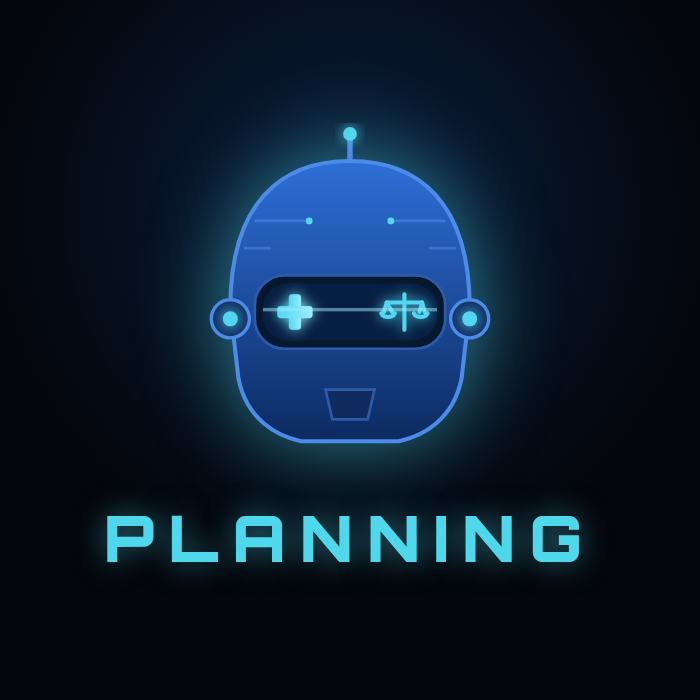
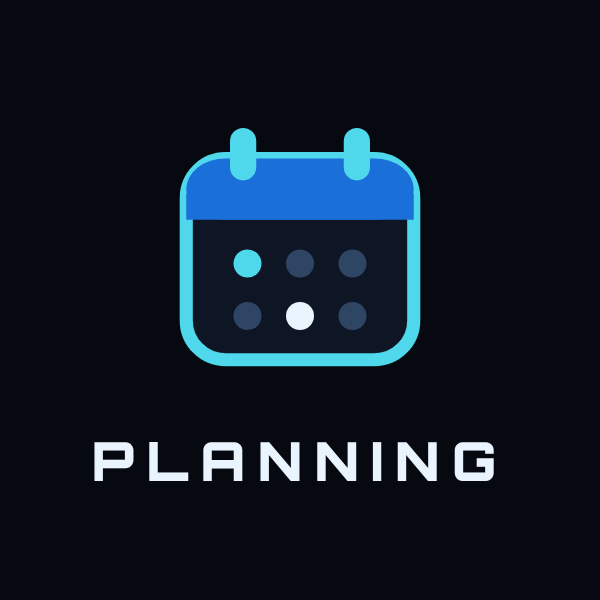
Pages planning : vignette et icône calendrier sobres, sans le robot JARVIS (#239)
Claude-Session: https://claude.ai/code/session_018DKShe5dNcFb2YgXszjpXg

Changed region(s): [[0.21, 0.06, 0.78, 0.69], [0.12, 0.72, 0.84, 0.81]]

diff --git a/planning/sartrouville.html b/planning/sartrouville.html
@@ -10,13 +10,13 @@
 <meta property="og:description" content="Horaires de la semaine, mis à jour en direct" />
 <meta property="og:image" content="https://jarvis-yk-app.netlify.app/planning/og-planning.png" />
 <meta property="og:type" content="website" />
-<link rel="icon" type="image/svg+xml" href="/cdd/jarvis-robot.svg" />
+<link rel="icon" type="image/svg+xml" href="calendrier.svg" />
 <link rel="apple-touch-icon" href="/vac/apple-touch-icon.png" />
 <link href="https://fonts.googleapis.com/css2?family=Orbitron:wght@700&family=Rajdhani:wght@500;600;700&display=swap" rel="stylesheet" />
 <link rel="stylesheet" href="style.css" />
 </head>
 <body data-centre="sartrouville">
-<header><img src="/cdd/jarvis-robot.svg" alt=""><h1>PLANNING<span>·SARTROUVILLE</span></h1></header>
+<header><img src="calendrier.svg" alt=""><h1>PLANNING<span>·SARTROUVILLE</span></h1></header>
 <div class="sem"><div class="fl" id="prec">‹</div><b id="titre-sem">…</b><div class="fl" id="suiv">›</div></div>
 <div class="demain" id="demain" style="display:none"></div>
 <div id="zone"></div>

diff --git a/planning/argenteuil.html b/planning/argenteuil.html
@@ -10,13 +10,13 @@
 <meta property="og:description" content="Horaires de la semaine, mis à jour en direct" />
 <meta property="og:image" content="https://jarvis-yk-app.netlify.app/planning/og-planning.png" />
 <meta property="og:type" content="website" />
-<link rel="icon" type="image/svg+xml" href="/cdd/jarvis-robot.svg" />
+<link rel="icon" type="image/svg+xml" href="calendrier.svg" />
 <link rel="apple-touch-icon" href="/vac/apple-touch-icon.png" />
 <link href="https://fonts.googleapis.com/css2?family=Orbitron:wght@700&family=Rajdhani:wght@500;600;700&display=swap" rel="stylesheet" />
 <link rel="stylesheet" href="style.css" />
 </head>
 <body data-centre="argenteuil">
-<header><img src="/cdd/jarvis-robot.svg" alt=""><h1>PLANNING<span>·ARGENTEUIL</span></h1></header>
+<header><img src="calendrier.svg" alt=""><h1>PLANNING<span>·ARGENTEUIL</span></h1></header>
 <div class="sem"><div class="fl" id="prec">‹</div><b id="titre-sem">…</b><div class="fl" id="suiv">›</div></div>
 <div class="demain" id="demain" style="display:none"></div>
 <div id="zone"></div>

diff --git a/planning/tremblay.html b/planning/tremblay.html
@@ -10,13 +10,13 @@
 <meta property="og:description" content="Horaires de la semaine, mis à jour en direct" />
 <meta property="og:image" content="https://jarvis-yk-app.netlify.app/planning/og-planning.png" />
 <meta property="og:type" content="website" />
-<link rel="icon" type="image/svg+xml" href="/cdd/jarvis-robot.svg" />
+<link rel="icon" type="image/svg+xml" href="calendrier.svg" />
 <link rel="apple-touch-icon" href="/vac/apple-touch-icon.png" />
 <link href="https://fonts.googleapis.com/css2?family=Orbitron:wght@700&family=Rajdhani:wght@500;600;700&display=swap" rel="stylesheet" />
 <link rel="stylesheet" href="style.css" />
 </head>
 <body data-centre="tremblay">
-<header><img src="/cdd/jarvis-robot.svg" alt=""><h1>PLANNING<span>·TREMBLAY</span></h1></header>
+<header><img src="calendrier.svg" alt=""><h1>PLANNING<span>·TREMBLAY</span></h1></header>
 <div class="sem"><div class="fl" id="prec">‹</div><b id="titre-sem">…</b><div class="fl" id="suiv">›</div></div>
 <div class="demain" id="demain" style="display:none"></div>
 <div id="zone"></div>

diff --git a/planning/annecy.html b/planning/annecy.html
@@ -10,13 +10,13 @@
 <meta property="og:description" content="Horaires de la semaine, mis à jour en direct" />
 <meta property="og:image" content="https://jarvis-yk-app.netlify.app/planning/og-planning.png" />
 <meta property="og:type" content="website" />
-<link rel="icon" type="image/svg+xml" href="/cdd/jarvis-robot.svg" />
+<link rel="icon" type="image/svg+xml" href="calendrier.svg" />
 <link rel="apple-touch-icon" href="/vac/apple-touch-icon.png" />
 <link href="https://fonts.googleapis.com/css2?family=Orbitron:wght@700&family=Rajdhani:wght@500;600;700&display=swap" rel="stylesheet" />
 <link rel="stylesheet" href="style.css" />
 </head>
 <body data-centre="annecy">
-<header><img src="/cdd/jarvis-robot.svg" alt=""><h1>PLANNING<span>·ANNECY</span></h1></header>
+<header><img src="calendrier.svg" alt=""><h1>PLANNING<span>·ANNECY</span></h1></header>
 <div class="sem"><div class="fl" id="prec">‹</div><b id="titre-sem">…</b><div class="fl" id="suiv">›</div></div>
 <div class="demain" id="demain" style="display:none"></div>
 <div id="zone"></div>

diff --git a/planning/antony.html b/planning/antony.html
@@ -10,13 +10,13 @@
 <meta property="og:description" content="Horaires de la semaine, mis à jour en direct" />
 <meta property="og:image" content="https://jarvis-yk-app.netlify.app/planning/og-planning.png" />
 <meta property="og:type" content="website" />
-<link rel="icon" type="image/svg+xml" href="/cdd/jarvis-robot.svg" />
+<link rel="icon" type="image/svg+xml" href="calendrier.svg" />
 <link rel="apple-touch-icon" href="/vac/apple-touch-icon.png" />
 <link href="https://fonts.googleapis.com/css2?family=Orbitron:wght@700&family=Rajdhani:wght@500;600;700&display=swap" rel="stylesheet" />
 <link rel="stylesheet" href="style.css" />
 </head>
 <body data-centre="antony">
-<header><img src="/cdd/jarvis-robot.svg" alt=""><h1>PLANNING<span>·ANTONY</span></h1></header>
+<header><img src="calendrier.svg" alt=""><h1>PLANNING<span>·ANTONY</span></h1></header>
 <div class="sem"><div class="fl" id="prec">‹</div><b id="titre-sem">…</b><div class="fl" id="suiv">›</div></div>
 <div class="demain" id="demain" style="display:none"></div>
 <div id="zone"></div>
